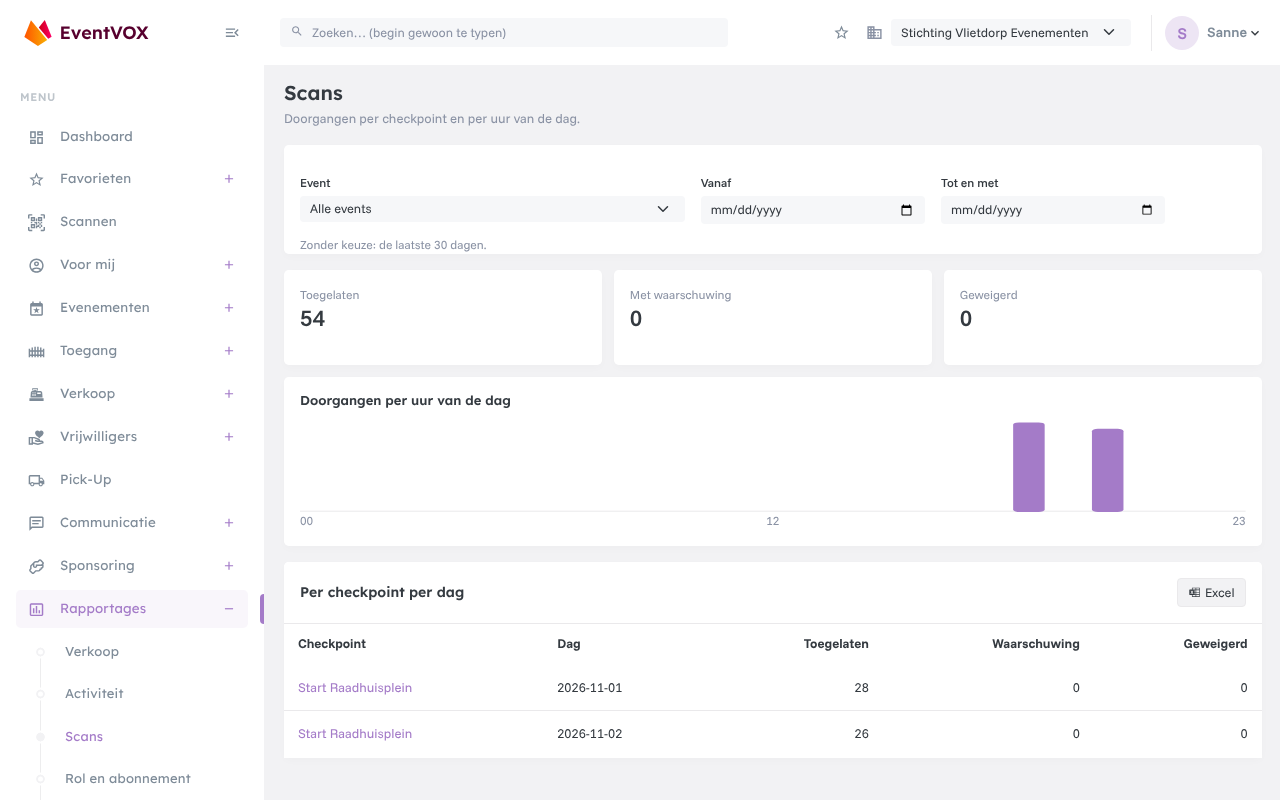
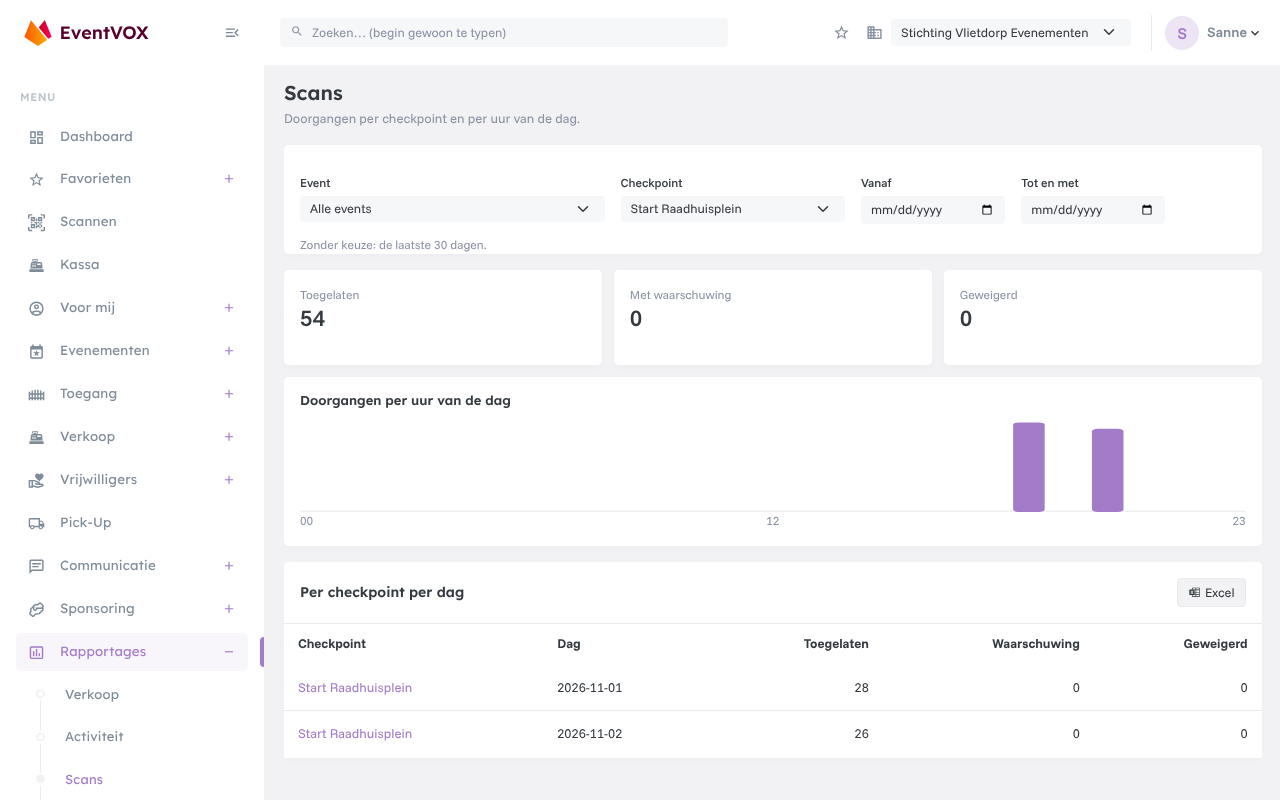
Handleidingen: Kassa als eigen menu-item, verkoop start op het laatste event, scans per checkpoint
Claude-Session: https://claude.ai/code/session_01XbTwMg7wxJwi4JQw7oTKWb

diff --git a/rapportages.md b/rapportages.md
@@ -28,7 +28,8 @@ voor *Verkoop* heb je bijvoorbeeld leesrechten op bestellingen nodig, voor *Vrij
 ## Verkoop
 
 Wat er betaald is: tickets, producten en het totaal, per event en per tickettype. Een bestelling telt op de dag dat
-hij betaald is. Filter op **event** en op een **periode**.
+hij betaald is. De pagina opent op het **laatste event**: het event dat het laatst begonnen is of nu loopt. Kies een
+ander event, **Alle events**, of een **periode**.
 
 ![Verkoop]({{ '/assets/images/report-sales.png' | relative_url }})
 
@@ -43,7 +44,7 @@ gebruikers en acties in het logboek. Kies **30 dagen**, **90 dagen** of **1 jaar
 
 De doorgangen bij de checkpoints: hoeveel er zijn toegelaten, met een waarschuwing toegelaten of geweigerd, per
 checkpoint per dag. De grafiek laat zien op welk **uur van de dag** het druk is, handig om de bezetting bij de ingang te
-plannen. Filter op **event** en **periode**; zonder keuze zie je de laatste 30 dagen.
+plannen. Filter op **event**, **checkpoint** en **periode**; zonder event of periode zie je de laatste 30 dagen.
 
 ![Scans]({{ '/assets/images/report-scans.png' | relative_url }})
 

diff --git a/deelnemers-en-bestellingen.md b/deelnemers-en-bestellingen.md
@@ -87,7 +87,7 @@ Openstaande bestellingen voor betalen bij afhalen vind je met het filter status 
 
 ## Kassa
 
-Met **Verkoop → Kassa** verkoop je tickets en producten ter plekke, bijvoorbeeld aan de inschrijftafel of bij een
+Met **Kassa** in het menu (direct onder Scannen) verkoop je tickets en producten ter plekke, bijvoorbeeld aan de inschrijftafel of bij een
 kraam. De bestelling is meteen betaald, contant of met pin.
 
 ![Kassa]({{ '/assets/images/pos.png' | relative_url }})
